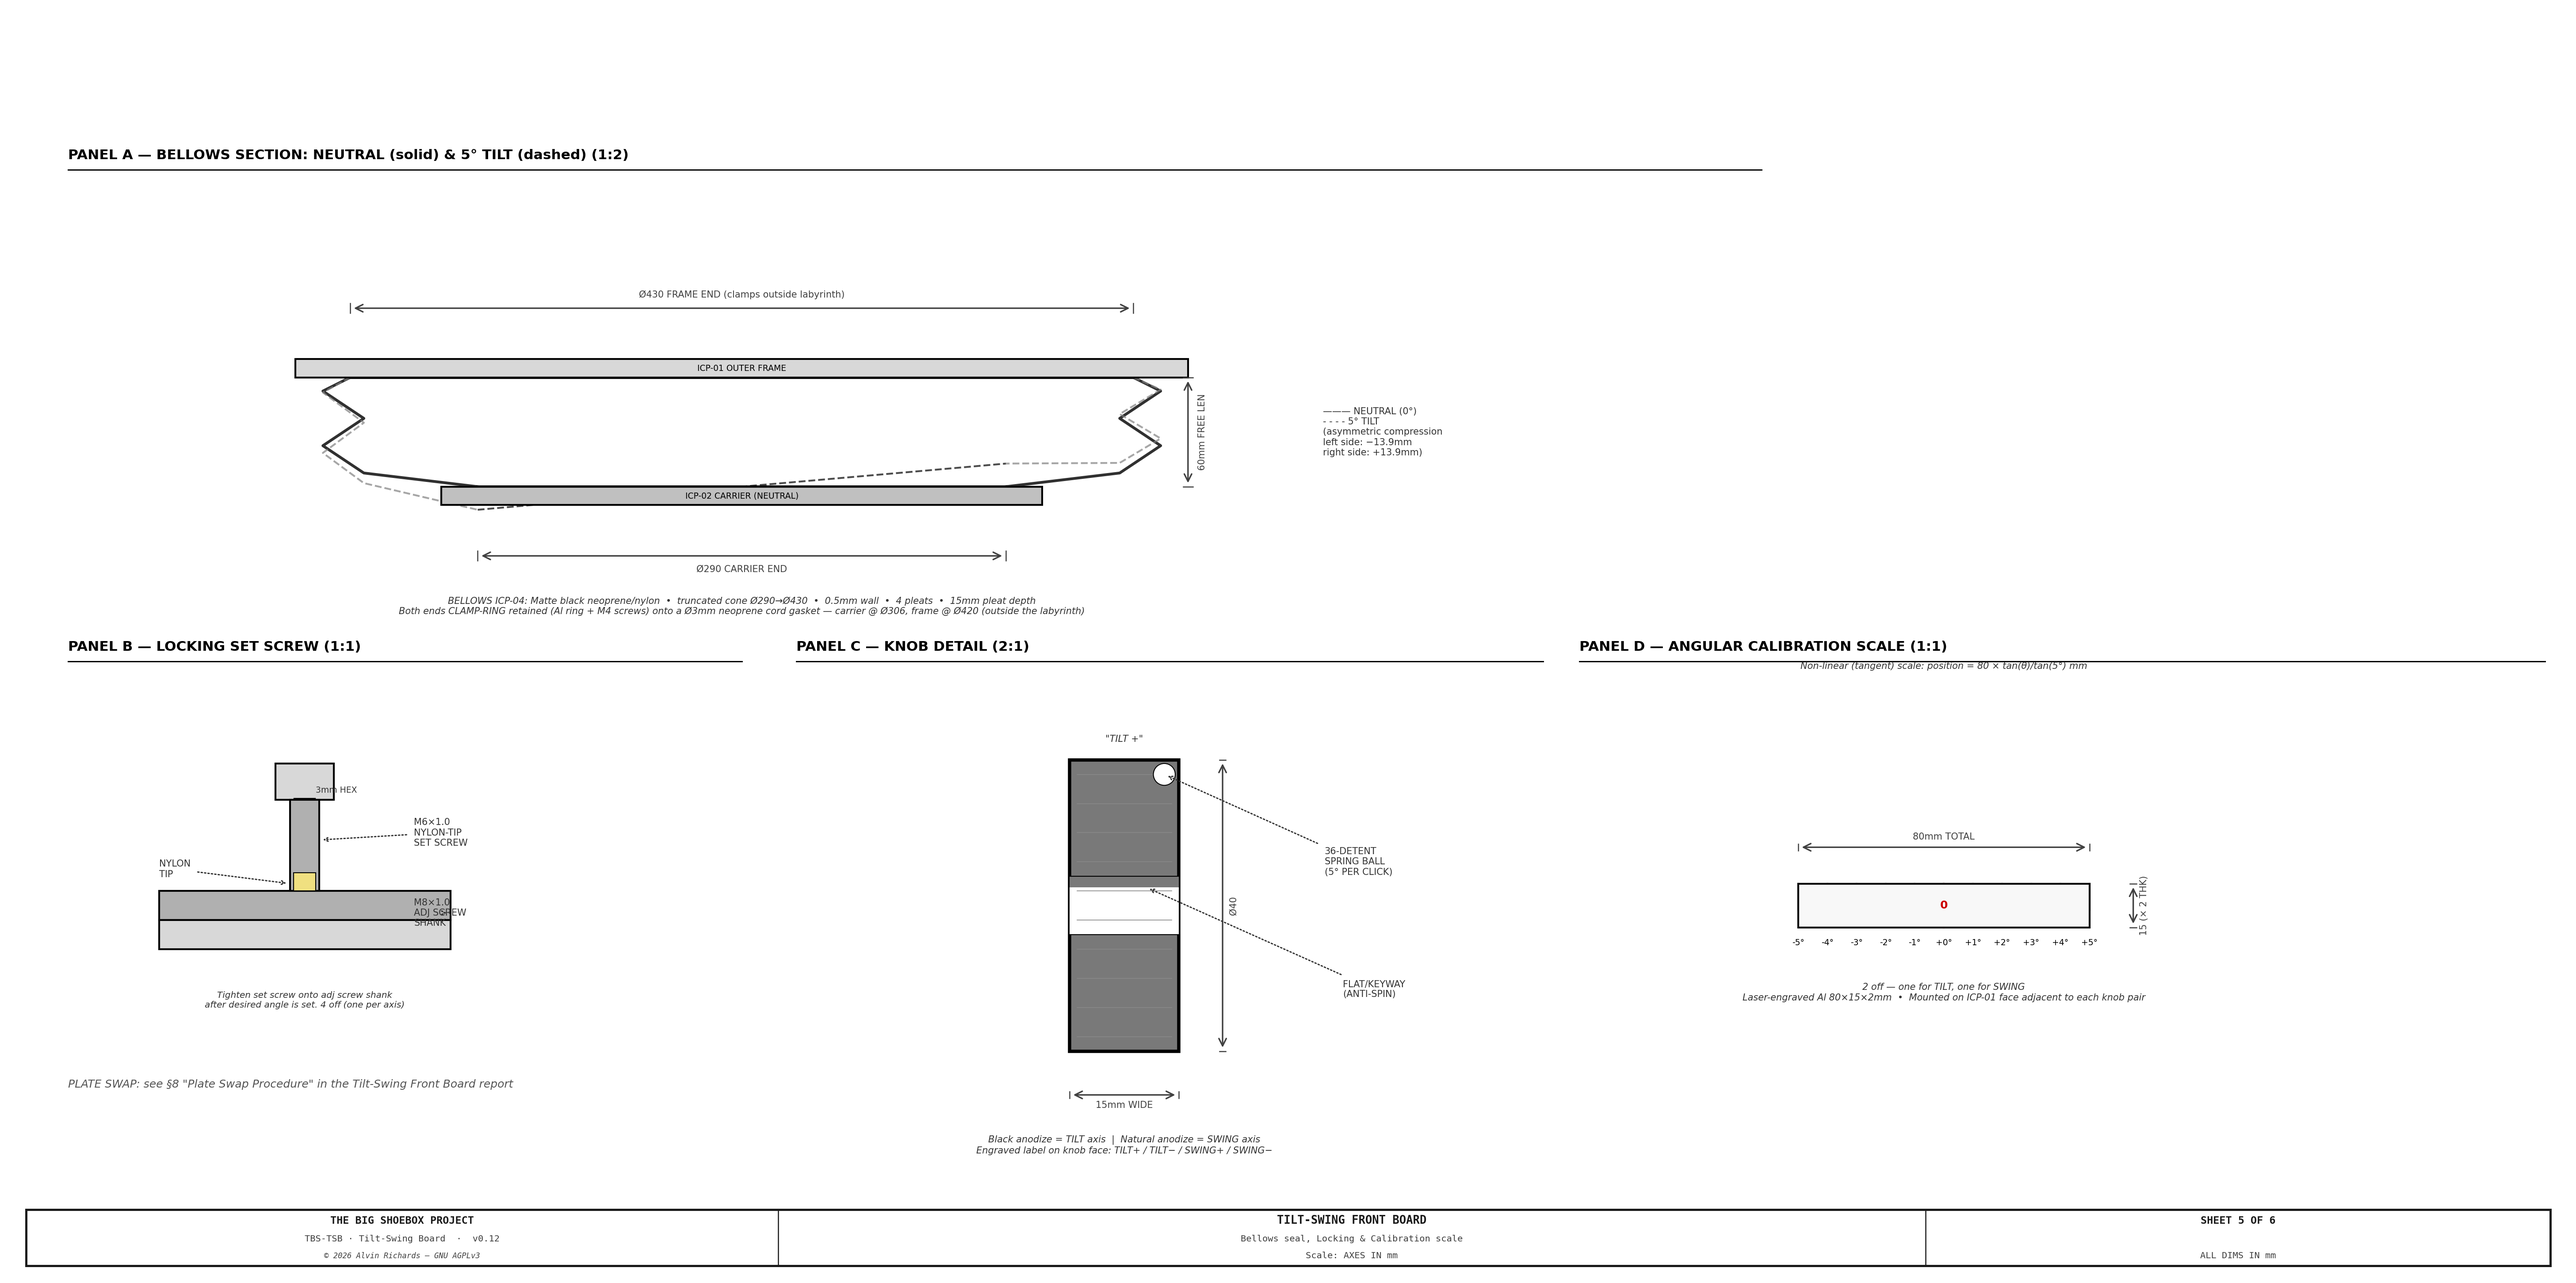
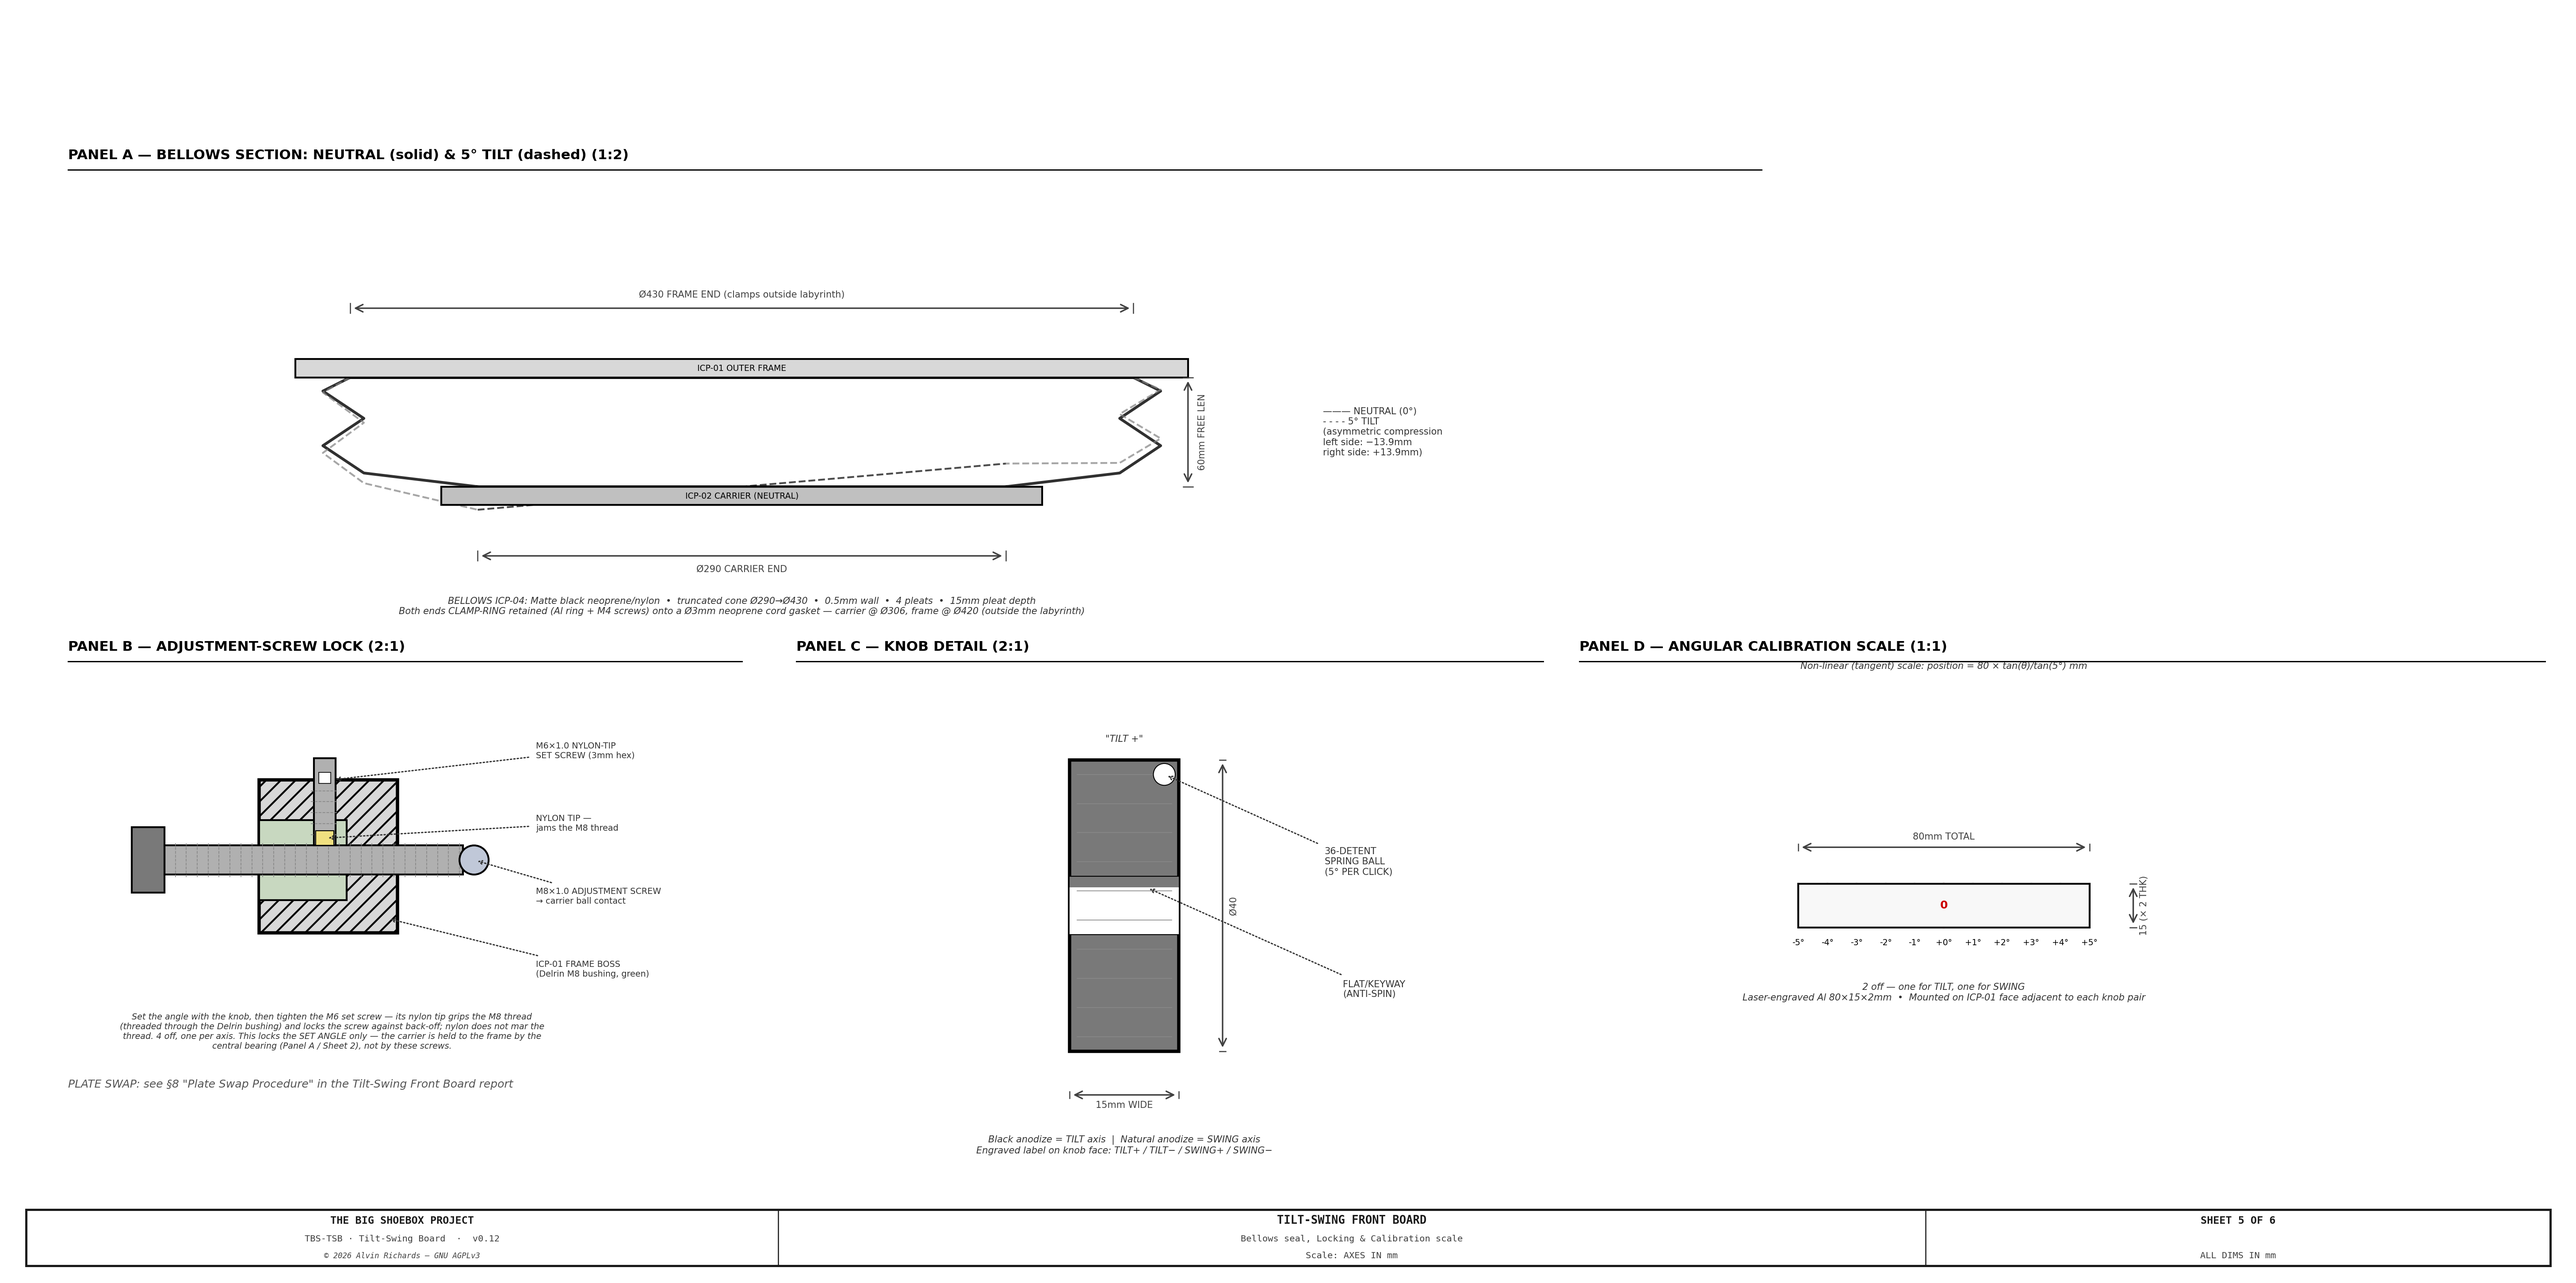
Tilt-swing: fix Sheet 6 bolt-section convention + redraw Sheet 5 lock detail
Review fixes (1 of 2 feedback batches):
- Sheet 6 clamp screw redrawn as a proper socket-head cap screw in
  section (filled shank + dashed thread crests + blind-tap relief +
  hex-socket recess), matching the M8 convention on Sheet 4 Panel D;
  the ad-hoc angled thread ticks are gone.
- Sheet 5 Panel B redrawn from an ambiguous 'locking set screw' (it read
  as two stacked plates) into a clear Adjustment-Screw Lock detail: the
  M8 adjustment screw threaded through the Delrin bushing in the frame
  boss, the M6 nylon-tip set screw jamming its thread, and a note that
  this locks the set angle only — the carrier is held by the central
  bearing, not these screws.

diff --git a/src/generators/generate_tilt_swing_board.py b/src/generators/generate_tilt_swing_board.py
@@ -1269,48 +1269,65 @@ ax3.text(cx3a, cy3a - s2(BELL_FREE) - carr_bar_h - 60,
          'BELLOWS ICP-04: Matte black neoprene/nylon  •  truncated cone Ø290→Ø430  •  0.5mm wall  •  4 pleats  •  15mm pleat depth\nBoth ends CLAMP-RING retained (Al ring + M4 screws) onto a Ø3mm neoprene cord gasket — carrier @ Ø306, frame @ Ø420 (outside the labyrinth)',
          ha='center', fontsize=5, style='italic', color='#333333', zorder=10)
 
-# ── PANEL B: Locking set screw detail (1:1) ──────────────────────────────────
-ax3.text(30, 490 + S3_UP, 'PANEL B — LOCKING SET SCREW (1:1)', fontsize=7.5, fontweight='bold', zorder=10)
+# ── PANEL B: Adjustment-screw lock detail (2:1) ──────────────────────────────
+# The M6 nylon-tip set screw jams the M8 ADJUSTMENT screw's thread so a set angle can't
+# back off. It locks the SCREW, not the plates — the carrier is held by the central bearing.
+ax3.text(30, 490 + S3_UP, 'PANEL B — ADJUSTMENT-SCREW LOCK (2:1)', fontsize=7.5, fontweight='bold', zorder=10)
 ax3.plot([30, 400], [484 + S3_UP, 484 + S3_UP], color='black', lw=0.7)
 
-cx3b, cy3b = 160, 350 + S3_UP
+cx3b, cy3b = 175, 375 + S3_UP
+def sb(mm): return mm * 2.0
 
-# M8 screw shaft (horizontal)
-m8_sh = mpatches.Rectangle((cx3b - 80, cy3b - 8), 160, 16,
-                             lw=LW_MED, edgecolor=C_OUT, facecolor=C_STEEL)
-ax3.add_patch(m8_sh)
-# M6 set screw (vertical, crossing M8)
-m6_sh = mpatches.Rectangle((cx3b - 8, cy3b + 8), 16, 50,
-                              lw=LW_MED, edgecolor=C_OUT, facecolor=C_STEEL, zorder=5)
-ax3.add_patch(m6_sh)
-# Nylon tip at bottom
-ny_p = mpatches.Rectangle((cx3b - 6, cy3b + 8), 12, 10,
-                            lw=0.5, edgecolor=C_OUT, facecolor='#F0E080', zorder=6)
-ax3.add_patch(ny_p)
-# Hex key socket (top of M6)
-ax3.plot([cx3b - 5, cx3b + 5], [cy3b + 58, cy3b + 58], color=C_OUT, lw=2.0)
-ax3.plot([cx3b - 3, cx3b - 3], [cy3b + 54, cy3b + 58], color=C_OUT, lw=1.0)
-ax3.plot([cx3b + 3, cx3b + 3], [cy3b + 54, cy3b + 58], color=C_OUT, lw=1.0)
-# Boss context (frame)
-fr3b = mpatches.Rectangle((cx3b - 80, cy3b - 24), 160, 16,
-                            lw=LW_MED, edgecolor=C_OUT, facecolor=C_ALUM)
-ax3.add_patch(fr3b)
-fr3bt = mpatches.Rectangle((cx3b - 16, cy3b + 58), 32, 20,
-                             lw=LW_MED, edgecolor=C_OUT, facecolor=C_ALUM)
-ax3.add_patch(fr3bt)
+# ICP-01 frame boss (aluminum, sectioned) — the M8 threads through it via the Delrin bushing
+boss_l, boss_r = cx3b - sb(20), cx3b + sb(18)
+boss_b, boss_t = cy3b - sb(20), cy3b + sb(22)
+ax3.add_patch(mpatches.Rectangle((boss_l, boss_b), boss_r - boss_l, boss_t - boss_b,
+              lw=LW_THICK, edgecolor=C_OUT, facecolor=C_ALUM, hatch='///', zorder=3))
 
-leader(ax3, cx3b + 8, cy3b + 36,
-       cx3b + 60, cy3b + 40,
-       'M6×1.0\nNYLON-TIP\nSET SCREW', fs=5, color=C_DIM, arrow_style='->')
-leader(ax3, cx3b + 80, cy3b - 4,
-       cx3b + 60, cy3b - 4,
-       'M8×1.0\nADJ SCREW\nSHANK', fs=5, color=C_DIM, arrow_style='->')
-leader(ax3, cx3b - 8, cy3b + 12,
-       cx3b - 80, cy3b + 20,
-       'NYLON\nTIP', fs=5, color=C_DIM, arrow_style='->')
-ax3.text(cx3b + 6, cy3b + 62, '3mm HEX', fontsize=4.5, color='#333333', zorder=10)
-ax3.text(cx3b, cy3b - 56, 'Tighten set screw onto adj screw shank\nafter desired angle is set. 4 off (one per axis)',
-         ha='center', fontsize=4.8, style='italic', color='#333333', zorder=10)
+# Delrin bushing (M22 OD, internally M8×1.0) carrying the adjustment screw thread
+ax3.add_patch(mpatches.Rectangle((boss_l, cy3b - sb(11)), (cx3b + sb(4)) - boss_l, sb(22),
+              lw=LW_MED, edgecolor=C_OUT, facecolor=C_DELRIN, zorder=4))
+
+# M8 adjustment screw — horizontal shank, steel, with thread crests (dashed, set convention)
+m8_l, m8_r = cx3b - sb(46), cx3b + sb(36)
+ax3.add_patch(mpatches.Rectangle((m8_l, cy3b - sb(4)), m8_r - m8_l, sb(8),
+              lw=LW_MED, edgecolor=C_OUT, facecolor=C_STEEL, zorder=6))
+for tx in np.arange(m8_l + sb(3), m8_r, sb(3)):     # thread crests ⟂ to the screw axis
+    ax3.plot([tx, tx], [cy3b - sb(4) - 1.5, cy3b + sb(4) + 1.5], color=C_HID, lw=0.4, ls='--', zorder=6)
+# knob stub (exterior end) + carrier ball (interior end)
+ax3.add_patch(mpatches.Rectangle((m8_l - sb(9), cy3b - sb(9)), sb(9), sb(18),
+              lw=LW_MED, edgecolor=C_OUT, facecolor='#797979', zorder=6))
+draw_circle(ax3, m8_r + sb(3), cy3b, sb(4), fill=True, fc=C_BEAR, lw=LW_MED, color=C_OUT, zorder=7)
+
+# M6 nylon-tip set screw — vertical, in a tapped cross-hole in the boss, tip jamming the M8 thread
+m6_x = cx3b - sb(2)
+ax3.add_patch(mpatches.Rectangle((m6_x - sb(3), cy3b + sb(4)), sb(6), sb(24),
+              lw=LW_MED, edgecolor=C_OUT, facecolor=C_STEEL, zorder=8))
+for ty in np.arange(cy3b + sb(7), cy3b + sb(22), sb(3)):   # set-screw thread crests
+    ax3.plot([m6_x - sb(3) - 1.5, m6_x + sb(3) + 1.5], [ty, ty], color=C_HID, lw=0.4, ls='--', zorder=8)
+ax3.add_patch(mpatches.Rectangle((m6_x - sb(2.5), cy3b + sb(4)), sb(5), sb(4),
+              lw=0.5, edgecolor=C_OUT, facecolor='#F0E080', zorder=9))   # nylon tip on the M8 thread
+# 3mm hex socket in the set-screw top
+ax3.add_patch(mpatches.Rectangle((m6_x - sb(1.6), cy3b + sb(24) - sb(3)), sb(3.2), sb(3),
+              lw=0.4, edgecolor=C_OUT, facecolor='white', zorder=10))
+
+# ── leaders — right-stacked, ordered by feature height so the leader lines don't cross ──
+LBX = m8_r + sb(20)                                 # common label column, clear of the ball
+leader(ax3, m6_x + sb(2), cy3b + sb(22), LBX, cy3b + sb(30),
+       'M6×1.0 NYLON-TIP\nSET SCREW (3mm hex)', fs=4.6, color=C_DIM, arrow_style='->', ha='left')
+leader(ax3, m6_x, cy3b + sb(6), LBX, cy3b + sb(10),
+       'NYLON TIP —\njams the M8 thread', fs=4.6, color=C_DIM, arrow_style='->', ha='left')
+leader(ax3, m8_r + sb(3), cy3b, LBX, cy3b - sb(10),
+       'M8×1.0 ADJUSTMENT SCREW\n→ carrier ball contact', fs=4.6, color=C_DIM, arrow_style='->', ha='left')
+leader(ax3, boss_r - sb(3), boss_b + sb(4), LBX, cy3b - sb(30),
+       'ICP-01 FRAME BOSS\n(Delrin M8 bushing, green)', fs=4.6, color=C_DIM, arrow_style='->', ha='left')
+
+ax3.text(cx3b, cy3b - sb(42),
+         'Set the angle with the knob, then tighten the M6 set screw — its nylon tip grips the M8 thread\n'
+         '(threaded through the Delrin bushing) and locks the screw against back-off; nylon does not mar the\n'
+         'thread. 4 off, one per axis. This locks the SET ANGLE only — the carrier is held to the frame by the\n'
+         'central bearing (Panel A / Sheet 2), not by these screws.',
+         ha='center', va='top', fontsize=4.6, style='italic', color='#333333', zorder=10)
 
 # ── PANEL C: Knob detail (2:1) ────────────────────────────────────────────────
 ax3.text(430, 490 + S3_UP, 'PANEL C — KNOB DETAIL (2:1)', fontsize=7.5, fontweight='bold', zorder=10)
@@ -1498,21 +1515,27 @@ def draw_clamp_joint(ax, ox, oy, sc, plate_ident, tap_deep,
     ax.add_patch(mpatches.Rectangle((ring_l, face + u(2)), ring_r - ring_l, u(8),
                  lw=LW_THICK, edgecolor=C_OUT, facecolor=C_ALUM, hatch='\\\\\\', zorder=6))
 
-    # ── M4 SHCS: shank through ring+lip into the tapped hole, socket head on top ──
-    sh = u(2)
-    ax.add_patch(mpatches.Rectangle((ox - sh, face - u(tap_deep)), 2 * sh, u(tap_deep + 10),
+    # ── M4 SHCS in section — filled shank + dashed thread lines across the engaged length
+    #    (same convention as the M8 screw on Sheet 4 Panel D), socket-head cap with a hex-socket
+    #    recess. The tapped hole is drilled ~2mm deeper than the thread (standard blind-tap). ──
+    sh = u(2)                                         # M4 shank half-width
+    shank_top = face + u(10)                          # underside of the cap head (proud of the ring)
+    ax.add_patch(mpatches.Rectangle((ox - sh, face - u(tap_deep)), 2 * sh, u(tap_deep) + (shank_top - face),
                  lw=LW_MED, edgecolor=C_OUT, facecolor=C_STEEL, zorder=8))
-    for t in range(tap_deep):                       # female-thread ticks in the tapped hole
-        yy = face - u(t + 0.5)
-        ax.plot([ox - sh - u(0.9), ox - sh], [yy, yy - u(0.5)], color=C_OUT, lw=0.4, zorder=8)
-        ax.plot([ox + sh, ox + sh + u(0.9)], [yy, yy - u(0.5)], color=C_OUT, lw=0.4, zorder=8)
-    ax.add_patch(mpatches.Rectangle((ox - u(3.5), face + u(10)), u(7), u(3.5),
+    for t in range(1, tap_deep + 1):                  # thread crests — dashed, ⟂ to the screw axis
+        yy = face - u(t)
+        ax.plot([ox - sh - u(0.5), ox + sh + u(0.5)], [yy, yy], color=C_HID, lw=0.4, ls='--', zorder=8)
+    # drilled-deeper relief below the last thread
+    ax.add_patch(mpatches.Rectangle((ox - sh, face - u(tap_deep) - u(2)), 2 * sh, u(2),
+                 lw=LW_THIN, edgecolor=C_OUT, facecolor='white', zorder=7))
+    # socket-head cap (1.75·D wide × D tall) with the hex-socket recess shown
+    ax.add_patch(mpatches.Rectangle((ox - u(3.5), shank_top), u(7), u(4),
                  lw=LW_THICK, edgecolor=C_OUT, facecolor=C_STEEL, zorder=9))
-    ax.add_patch(mpatches.Rectangle((ox - u(1.6), face + u(10)), u(3.2), u(1.6),
-                 lw=LW_THIN, edgecolor=C_OUT, facecolor='#606060', zorder=10))  # hex socket
+    ax.add_patch(mpatches.Rectangle((ox - u(1.6), shank_top + u(1.2)), u(3.2), u(2.8),
+                 lw=LW_THIN, edgecolor=C_OUT, facecolor='white', zorder=10))  # hex socket recess
 
     # ── leaders (spread so leader lines don't cross) ──
-    leader(ax, ox, face + u(13.5), ox + u(30), face + u(42),
+    leader(ax, ox + u(3.5), face + u(12), ox + u(30), face + u(42),
            'M4×0.7 SHCS\n(SS A2-70)', fs=4.8, color=C_DIM, arrow_style='->', ha='left')
     leader(ax, ox + u(9), face + u(1), ox + u(26), face + u(9),
            'ICP-04 BELLOWS LIP\n(neoprene · clamped flat)', fs=4.8, color=C_DIM, arrow_style='->', ha='left')

diff --git a/RELEASE.md b/RELEASE.md
@@ -72,6 +72,14 @@ file** — a release must not ship without a changelog entry:
   carries as a numbered list (with more detail — M12×45 SHCS, 65 N·m). A swap is an operating step, not
   a fabrication feature, so Panel E is removed; the sheet now carries a one-line pointer to §8 and
   re-seats its title block to close the freed band. Report Sheet 5 caption updated to match.
+- **TSB review fixes: Sheet 6 bolt convention + Sheet 5 lock detail.** Review feedback: (1) the Sheet 6
+  clamp-screw section didn't match the set's convention — redrawn as a proper socket-head cap screw in
+  section (filled shank + dashed thread crests ⟂ to the axis + blind-tap relief + hex-socket recess),
+  same style as the M8 on Sheet 4 Panel D, replacing the ad-hoc angled thread ticks. (2) Sheet 5 Panel B
+  ("locking set screw") read as two stacked plates and didn't explain the mechanism — redrawn as an
+  "Adjustment-Screw Lock" detail showing the M8 adjustment screw threaded through the Delrin bushing in
+  the frame boss and the M6 nylon-tip set screw jamming its thread, with a note that it locks the SET
+  ANGLE only (the carrier is held by the central bearing, not these screws).
 
 - **Release + drawing-skill tooling hardened.** `release.sh` no longer aborts at its confirmation
   prompt when run without a TTY (tool shell / CI / pipe) — it proceeds automatically there, still
